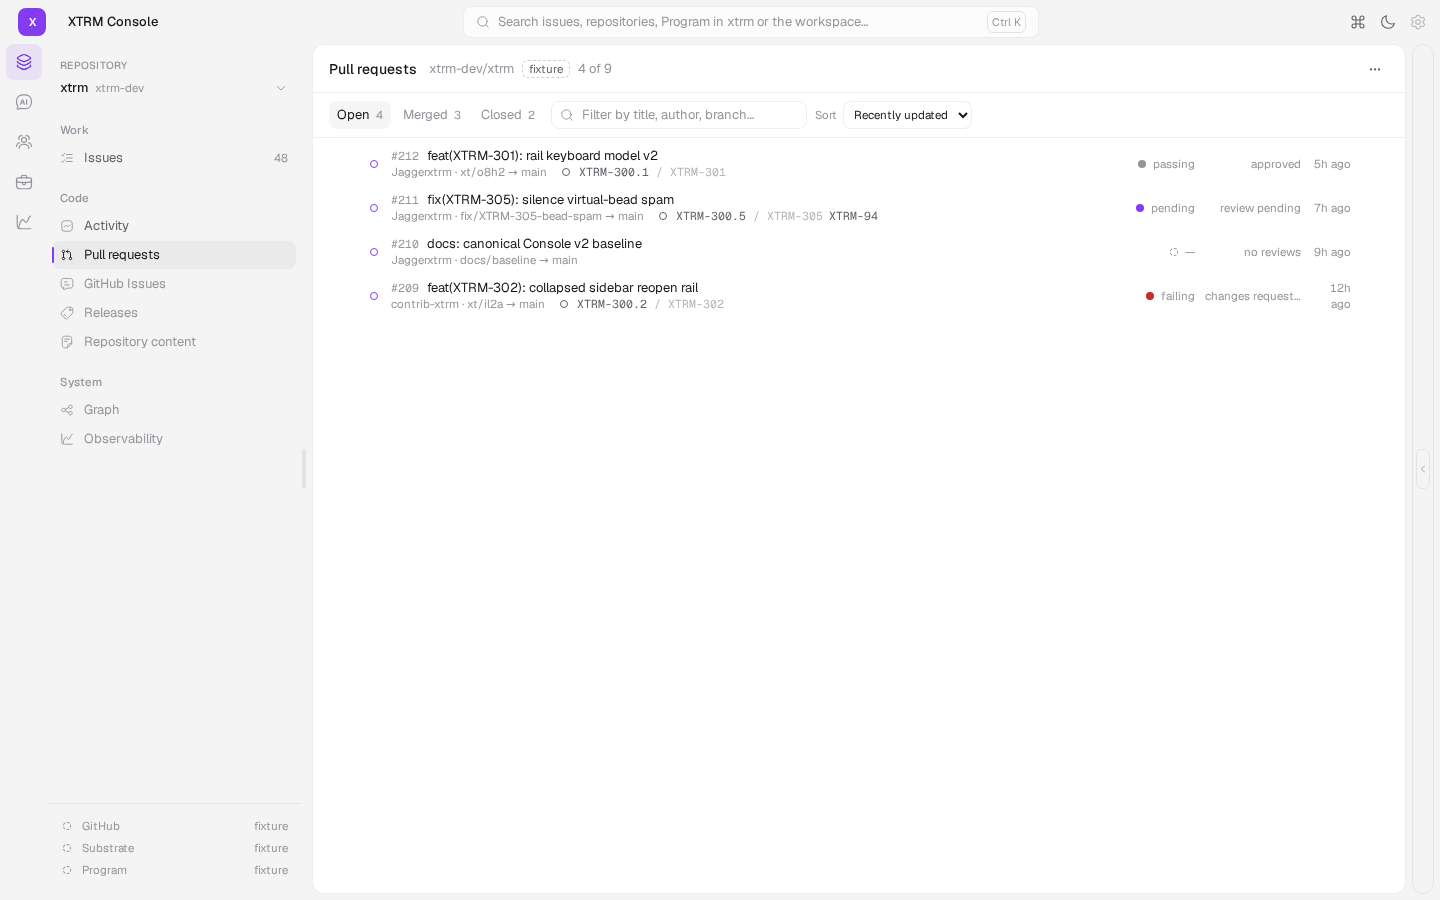
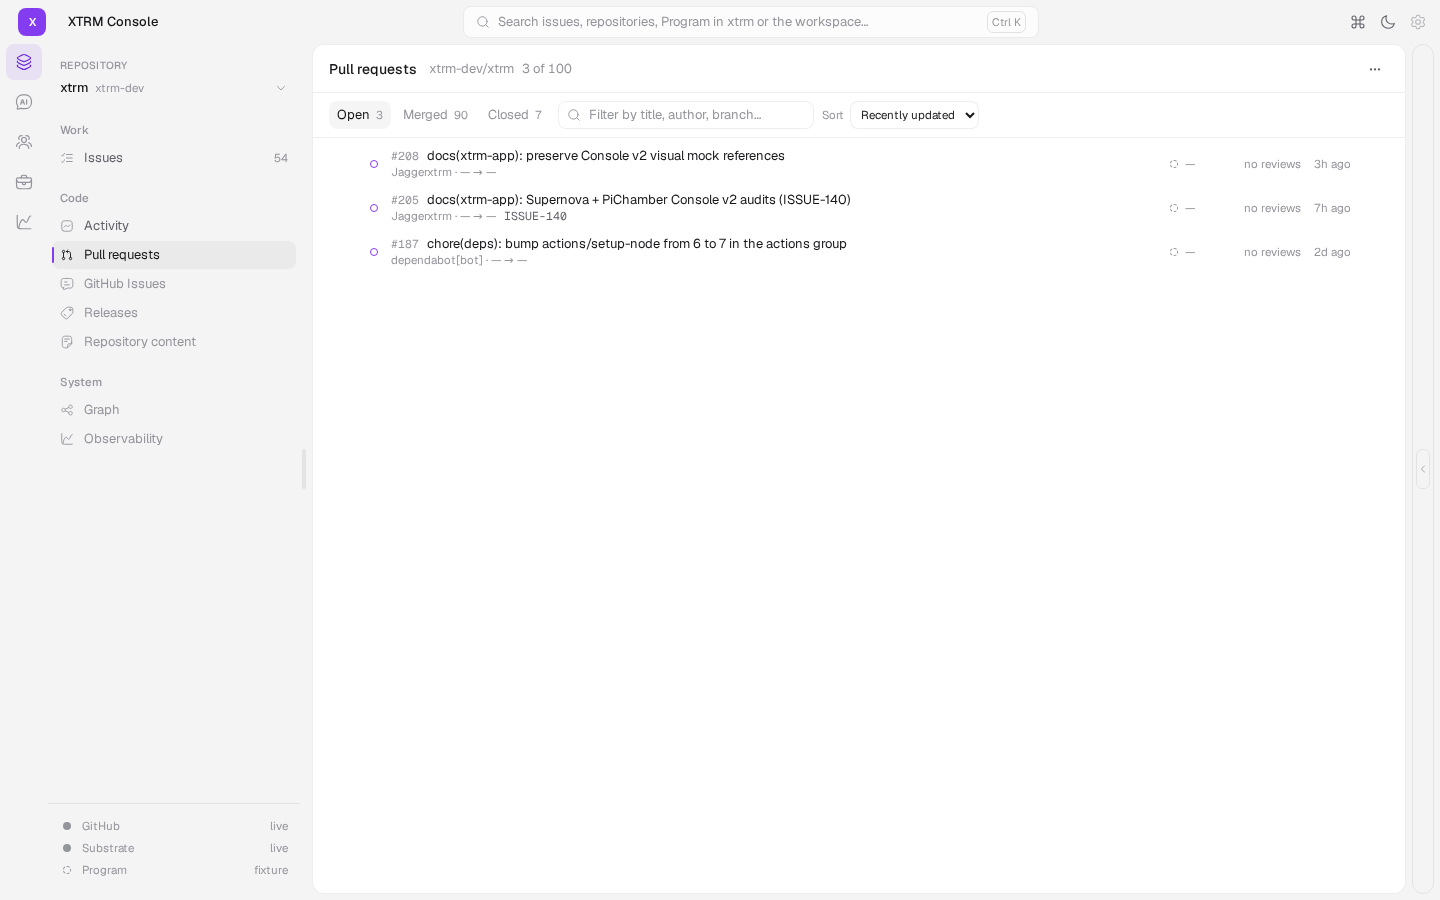
fix(XTRM-396): use existing Console v1 PR endpoints
live.ts called /repos/:o/:r/pulls* which do not exist on the backend.
listPulls/getPull now use the verified contract: GET /prs (poller
cache; state is an exact column match), GET /prs/:o/:r/:n (unwrapped
row), GET .../detail (unwrapped PrDetailPayload for reviews/files/
commits), GET .../checks with 404 degrade (separate backend issue).
Row/detail shapes mapped from store.ts GithubPr and route-runtime.ts
PrDetailPayload, not guessed GitHub REST fields. Screenshots replaced
with live-backend captures (xtrm-dev/xtrm: 3 open / 90 merged / 7
closed); the only failing request is the anticipated /checks 404.

diff --git a/packages/xtrm-app/src/adapters/github/live.ts b/packages/xtrm-app/src/adapters/github/live.ts
@@ -92,68 +92,81 @@ async function getData<T>(path: string): Promise<T> {
   return ((await res.json()) as { data: T }).data;
 }
 
-async function tryData<T>(path: string): Promise<T | null> {
-  try {
-    return await getData<T>(path);
-  } catch {
-    return null;
-  }
-}
-
 // --- pull requests ----------------------------------------------------------
 // Reads go through the Console v1 backend (XTRM-395 step 1: no auth changes,
-// no direct api.github.com calls from xtrm-app). List/detail are served from
-// the backend poller cache; checks/mergeability/files are passthrough
-// endpoints with the existing TTL shape (`route-runtime.ts`):
-//   GET /api/github/repos/:owner/:repo/pulls?state=all
-//   GET /api/github/repos/:owner/:repo/pulls/:n
-//   GET /api/github/repos/:owner/:repo/pulls/:n/checks
-//   GET /api/github/repos/:owner/:repo/pulls/:n/files
-// When the passthrough PR lands without the newer endpoints, detail degrades
-// to checks=none / empty files rather than failing the drawer.
+// no direct api.github.com calls from xtrm-app). Exact backend paths
+// (`Jaggerxtrm/console` apps/console/src/server/routes/github.ts):
+//   GET /api/github/prs?repo=owner/repo&state=open|closed|merged&limit&offset
+//       -> { data: Pr[], limit, offset } (poller cache; `state` is an exact
+//       column match, so `all` is expressed by omitting the param)
+//   GET /api/github/prs/:owner/:repo/:number -> Pr row (unwrapped)
+//   GET /api/github/prs/:owner/:repo/:number/detail -> PrDetailPayload
+//       { pr, comments, reviews, review_comments, commits, files, timeline,
+//       errors } (TTL cached: 60s open / 10min closed; route-runtime.ts)
+//   GET /api/github/prs/:owner/:repo/:number/checks
+//       -> { state, checks, head_sha, mergeable, mergeable_state }
+//       (separate backend issue; 404 until it lands — detail degrades to
+//       checks none / mergeable null rather than failing the drawer)
+// Row shape: packages/core/src/github/store.ts GithubPr (snake_case). Rows
+// carry no branches, draft flag, or check/review state; those map to neutral
+// fallbacks below instead of guessed fields.
 
-interface WirePull {
+/** Poller-cache PR row (store.ts GithubPr). */
+interface WirePr {
+  repo: string;
   number: number;
   title: string;
-  user?: { login?: string } | null;
-  author?: string | null;
+  body: string | null;
+  /** 'open' | 'closed' | 'merged' */
+  state: string;
+  author: string;
+  url: string | null;
+  additions: number | null;
+  deletions: number | null;
+  changed_files: number | null;
+  comment_count: number | null;
+  label_names: string | null;
+  created_at: string;
+  updated_at: string | null;
+  merged_at: string | null;
+  closed_at: string | null;
+  // Tolerated for forward compatibility if the backend ever enriches rows;
+  // absent today (verified against the live /prs response).
   head?: { ref?: string } | null;
   head_branch?: string | null;
   base?: { ref?: string } | null;
   base_branch?: string | null;
-  state?: string | null;
-  merged_at?: string | null;
-  draft?: boolean | null;
-  additions?: number | null;
-  deletions?: number | null;
-  changed_files?: number | null;
-  comments?: number | null;
-  updated_at?: string | null;
-  created_at?: string | null;
-  html_url?: string | null;
-  url?: string | null;
-  body?: string | null;
-  checks?: string | null;
-  check_state?: string | null;
-  review?: string | null;
-  review_state?: string | null;
 }
 
-interface WirePullDetail extends WirePull {
-  mergeable?: boolean | null;
-  mergeable_state?: string | null;
-  commits?: number | null;
-  reviews?: Array<{ id?: string | number; author?: string; user?: { login?: string }; state?: string; submitted_at?: string | null }> | null;
-  files?: Array<{ filename?: string; additions?: number; deletions?: number; status?: string }> | null;
+/** Detail payload sections used here (route-runtime.ts PrDetailPayload). */
+interface WireDetail {
+  pr: WirePr;
+  reviews: Array<{ id: number; author: string; state: string; submitted_at: string | null }>;
+  commits: Array<{ sha: string }>;
+  files: Array<{ filename: string; status: string; additions: number; deletions: number }>;
 }
 
 interface WireChecks {
-  state?: string | null;
-  total?: number | null;
+  state: string | null;
+  checks?: Array<{ name?: string }> | null;
+  head_sha?: string | null;
+  mergeable?: boolean | null;
+  mergeable_state?: string | null;
 }
 
-interface WireFiles {
-  files?: WirePullDetail["files"];
+/** Single-PR and detail endpoints return their payload unwrapped (no `{ data }`). */
+async function getRaw<T>(path: string): Promise<T> {
+  const res = await fetch(`/api/github${path}`);
+  if (!res.ok) throw new Error(`GitHub backend ${path} returned ${res.status}`);
+  return (await res.json()) as T;
+}
+
+async function tryRaw<T>(path: string): Promise<T | null> {
+  try {
+    return await getRaw<T>(path);
+  } catch {
+    return null;
+  }
 }
 
 function asCheckState(raw: string | null | undefined): CheckState {
@@ -181,6 +194,7 @@ function asReviewState(raw: string | null | undefined): ReviewState {
     case "changes_requested":
       return "changes_requested";
     case "commented":
+    case "dismissed":
       return "commented";
     case "pending":
     case "review_required":
@@ -190,7 +204,7 @@ function asReviewState(raw: string | null | undefined): ReviewState {
   }
 }
 
-function asPullState(raw: WirePull): PullState {
+function asPullState(raw: WirePr): PullState {
   if (raw.merged_at) return "merged";
   switch ((raw.state ?? "open").toLowerCase()) {
     case "closed":
@@ -202,50 +216,60 @@ function asPullState(raw: WirePull): PullState {
   }
 }
 
-export function mapPull(repo: string, raw: WirePull): PullRequestSummary {
-  const [owner = "", name = repo] = repo.includes("/") ? repo.split("/") : ["", repo];
+export function mapPull(repo: string, raw: WirePr): PullRequestSummary {
   return {
     number: raw.number,
     title: raw.title,
-    author: raw.author ?? raw.user?.login ?? "—",
+    author: raw.author ?? "—",
+    // Rows carry no branch refs; tolerated fields map if the backend adds them.
     headBranch: raw.head?.ref ?? raw.head_branch ?? "—",
-    baseBranch: raw.base?.ref ?? raw.base_branch ?? "main",
+    baseBranch: raw.base?.ref ?? raw.base_branch ?? "—",
     state: asPullState(raw),
-    draft: raw.draft ?? false,
-    checks: asCheckState(raw.checks ?? raw.check_state),
-    review: asReviewState(raw.review ?? raw.review_state),
+    draft: false,
+    // List rows carry no check/review state; the drawer resolves both.
+    checks: "none",
+    review: "none",
     additions: raw.additions ?? 0,
     deletions: raw.deletions ?? 0,
     changedFiles: raw.changed_files ?? 0,
-    comments: raw.comments ?? 0,
-    updatedAt: raw.updated_at ?? new Date().toISOString(),
-    createdAt: raw.created_at ?? raw.updated_at ?? new Date().toISOString(),
-    url: raw.html_url ?? raw.url ?? `https://github.com/${owner}/${name}/pull/${raw.number}`,
-    body: raw.body ?? null,
+    comments: raw.comment_count ?? 0,
+    updatedAt: raw.updated_at ?? raw.created_at,
+    createdAt: raw.created_at,
+    url: raw.url ?? `https://github.com/${repo}/pull/${raw.number}`,
+    body: raw.body,
   };
 }
 
-export function mapPullDetail(repo: string, raw: WirePullDetail, checks: WireChecks | null, files: WireFiles | WirePullDetail["files"] | null): PullRequestDetail {
-  const base = mapPull(repo, raw);
-  const fileRows = Array.isArray(files) ? files : (files as WireFiles | null)?.files ?? raw.files ?? [];
+/** Latest review decides the drawer summary; empty review lists stay `none`. */
+function summarizeReviews(reviews: WireDetail["reviews"]): { review: ReviewState; rows: PullRequestDetail["reviews"] } {
+  const rows = reviews.map((r) => ({ id: String(r.id), author: r.author ?? "—", state: asReviewState(r.state), submittedAt: r.submitted_at }));
+  const last = rows.filter((r) => r.state !== "none").at(-1);
+  return { review: last?.state ?? "none", rows };
+}
+
+export function mapPullDetail(repo: string, row: WirePr, detail: WireDetail, checks: WireChecks | null): PullRequestDetail {
+  const base = mapPull(repo, row);
+  const files = (detail.files ?? []).map((f) => ({
+    filename: f.filename ?? "—",
+    additions: f.additions ?? 0,
+    deletions: f.deletions ?? 0,
+    status: f.status ?? "modified",
+  }));
+  const { review, rows } = summarizeReviews(detail.reviews ?? []);
   return {
     ...base,
-    mergeable: raw.mergeable ?? null,
-    mergeableState: raw.mergeable_state ?? null,
-    commits: raw.commits ?? 0,
-    reviews: (raw.reviews ?? []).map((r, i) => ({
-      id: String(r.id ?? `${base.number}-${i}`),
-      author: r.author ?? r.user?.login ?? "—",
-      state: asReviewState(r.state),
-      submittedAt: r.submitted_at ?? null,
-    })),
-    files: (fileRows ?? []).map((f) => ({
-      filename: f?.filename ?? "—",
-      additions: f?.additions ?? 0,
-      deletions: f?.deletions ?? 0,
-      status: f?.status ?? "modified",
-    })),
-    checks: asCheckState((checks as WireChecks | null)?.state ?? (raw as WirePull).checks ?? (raw as WirePull).check_state),
+    // Row counters are null until enriched; fall back to the file summary.
+    additions: row.additions ?? files.reduce((n, f) => n + f.additions, 0),
+    deletions: row.deletions ?? files.reduce((n, f) => n + f.deletions, 0),
+    changedFiles: row.changed_files ?? files.length,
+    comments: row.comment_count ?? base.comments,
+    review,
+    reviews: rows,
+    files,
+    commits: detail.commits?.length ?? 0,
+    mergeable: checks?.mergeable ?? null,
+    mergeableState: checks?.mergeable_state ?? null,
+    checks: asCheckState(checks?.state),
   };
 }
 
@@ -262,15 +286,33 @@ export const liveGithub: GithubAdapter = {
     return (await getData<WireEvent[]>(`/events?${q}`)).map(mapEvent);
   },
   async listPulls(repo, state: PullListState = "open") {
-    const q = new URLSearchParams({ state });
-    return (await getData<WirePull[]>(`/repos/${repo}/pulls?${q}`)).map((p) => mapPull(repo, p));
+    const params = (s?: string) => {
+      const q = new URLSearchParams({ repo, limit: "100" });
+      if (s) q.set("state", s);
+      return q;
+    };
+    if (state === "all") {
+      // `state` is an exact column match (`all` would match nothing).
+      return (await getData<WirePr[]>(`/prs?${params()}`)).map((p) => mapPull(repo, p));
+    }
+    if (state === "closed") {
+      // Unlike the GitHub API, backend `closed` excludes `merged`.
+      const [closed, merged] = await Promise.all([getData<WirePr[]>(`/prs?${params("closed")}`), getData<WirePr[]>(`/prs?${params("merged")}`)]);
+      return [...closed, ...merged].map((p) => mapPull(repo, p)).sort((a, b) => b.updatedAt.localeCompare(a.updatedAt));
+    }
+    return (await getData<WirePr[]>(`/prs?${params(state)}`)).map((p) => mapPull(repo, p));
   },
   async getPull(repo, number: number) {
-    const [detail, checks, files] = await Promise.all([
-      getData<WirePullDetail>(`/repos/${repo}/pulls/${number}`),
-      tryData<WireChecks>(`/repos/${repo}/pulls/${number}/checks`),
-      tryData<WireFiles>(`/repos/${repo}/pulls/${number}/files`),
+    const [owner, name] = repo.split("/");
+    const [row, detail, checksRaw] = await Promise.all([
+      getRaw<WirePr>(`/prs/${owner}/${name}/${number}`),
+      getRaw<WireDetail>(`/prs/${owner}/${name}/${number}/detail`),
+      tryRaw<WireChecks | { data: WireChecks }>(`/prs/${owner}/${name}/${number}/checks`),
     ]);
-    return mapPullDetail(repo, detail, checks, files);
+    const checks =
+      checksRaw && typeof checksRaw === "object" && ("state" in checksRaw || "mergeable" in checksRaw)
+        ? (checksRaw as WireChecks)
+        : ((checksRaw as { data?: WireChecks } | null)?.data ?? null);
+    return mapPullDetail(repo, row, detail, checks);
   },
 };

diff --git a/packages/xtrm-app/docs/console-v2-shell-architecture.md b/packages/xtrm-app/docs/console-v2-shell-architecture.md
@@ -561,7 +561,7 @@ Console v1's issue drawer tabs were Overview, Lineage, Activity, Evidence, GitHu
 ### 16.6 Pull requests surface and PR drawer (XTRM-396)
 
 - **Route** — `/rep/:owner/:repo/code/pulls` is live (`PullsSurface`); the `pulls` destination is no longer deferred in `destinations.ts`.
-- **Reads** — `GithubAdapter.listPulls` / `getPull` behind the Console v1 backend (XTRM-395 step 1: no auth changes, no direct `api.github.com` calls). List/detail ride the backend poller cache; checks, mergeability, and files are passthrough endpoints with the existing TTL shape (`GET /api/github/repos/:owner/:repo/pulls`, `…/pulls/:n`, `…/pulls/:n/checks`, `…/pulls/:n/files`). Detail degrades to checks `none` / empty files when the newer endpoints are absent.
+- **Reads** — `GithubAdapter.listPulls` / `getPull` behind the Console v1 backend (XTRM-395 step 1: no auth changes, no direct `api.github.com` calls). Exact paths (`Jaggerxtrm/console` `apps/console/src/server/routes/github.ts`): `GET /api/github/prs?repo=&state=&limit=&offset=` → `{ data, limit, offset }` poller cache (`state` is an exact column match: `open` | `closed` | `merged`; `all` omits the param; adapter `closed` fans out to `closed` + `merged`); `GET /api/github/prs/:owner/:repo/:number` (unwrapped row); `GET …/detail` (unwrapped `PrDetailPayload`: reviews, files, commits; TTL 60s open / 10min closed). Rows carry no branches/draft/checks (neutral fallbacks); change totals fall back to the file summary when row counters are null. `GET …/checks` is a separate backend issue — 404 until it lands, degrading to checks `none` / mergeable null.
 - **List** — Open / Merged / Closed views, text filter (title, author, branch, number), sort (updated, created, comments). Rows show author, branch, checks status, review state, updated time, and linked Substrate issue chips (keys mined from title/branch/body; `UTF-8` excluded).
 - **Drawer** — `DrawerRef` gains kind `pr` with ref `owner/repo#N`, URL-restorable as `?inspect=pr:owner/repo%23N`. `PullPanel` shows overview (author, branch, checks, review, mergeability, change totals), linked Substrate issues, description, reviews, files-changed summary (first 30 rows; full diff stays on GitHub per non-goals), and GitHub links. Drawer-first: no PR modal or split pane.
 - **References** — `ContextReference` gains `{ kind: "pr", ref: "owner/repo#N" }`, serialized `@pr:owner/repo#N`. The remark plugin links explicit `@pr:` refs (code spans and existing links untouched) and `ReferenceChip` renders PR chips that inspect the PR drawer. Substrate provenance PR strings (canonical refs, GitHub PR URLs, bare `#N`) resolve to the same chips, which the Provenance tab renders in place of the former comma-joined string.
